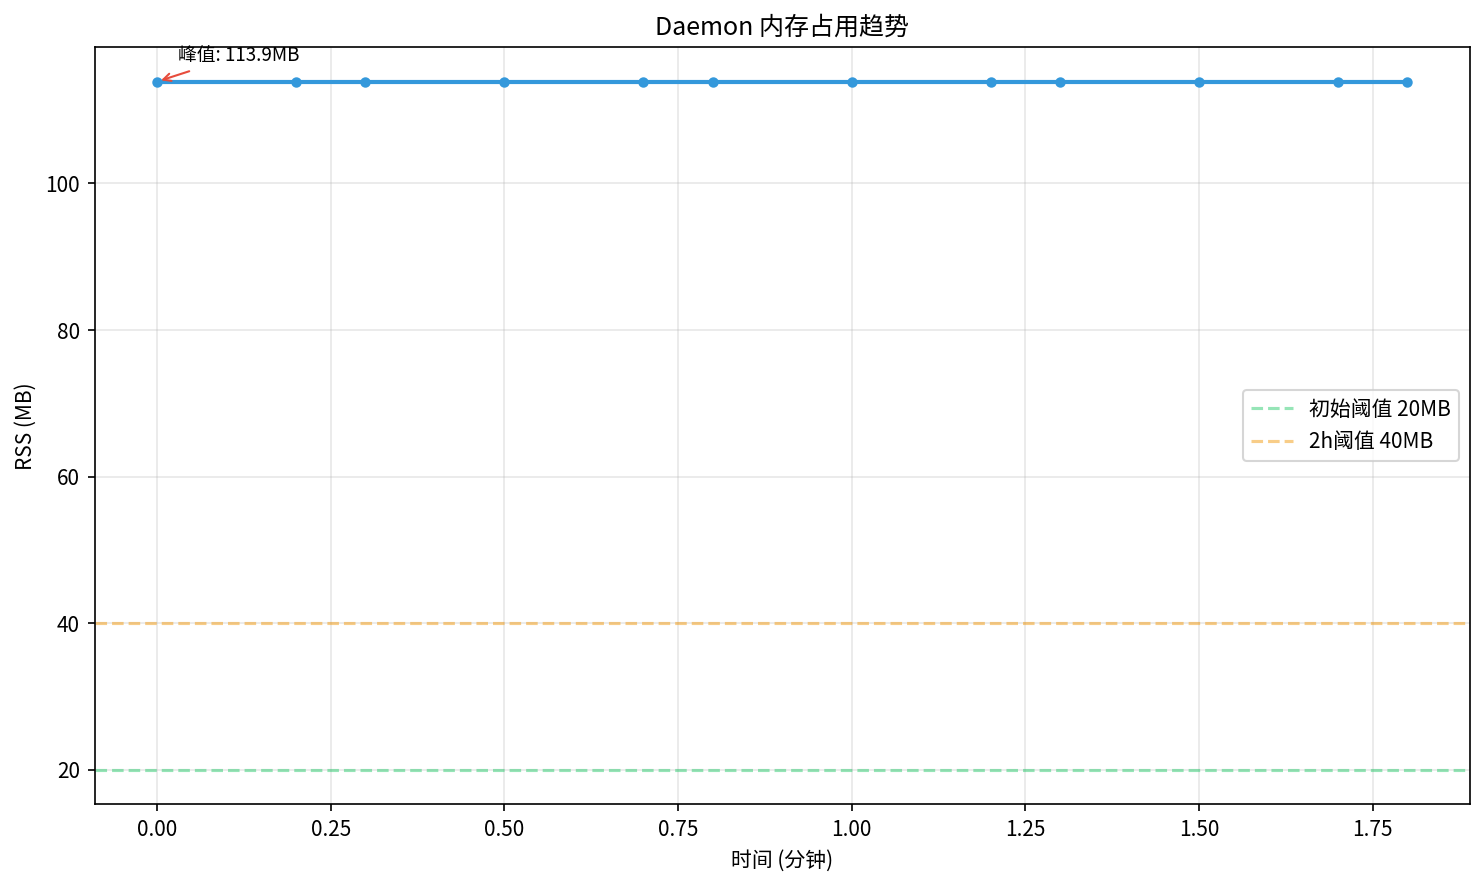
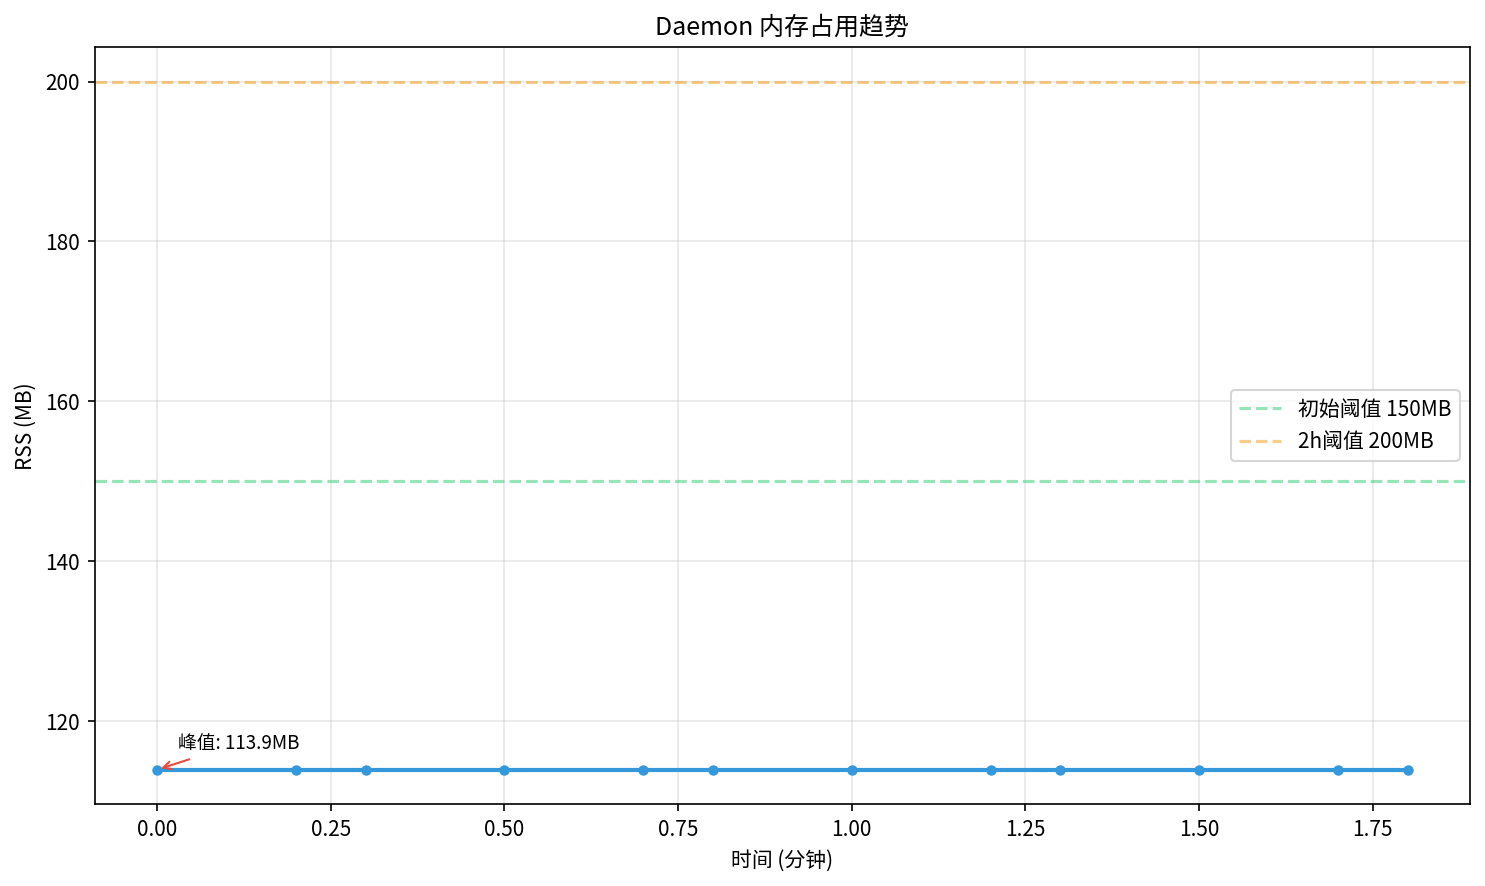
fix(bench): calibrate RSS thresholds to match Qt+X11 baseline
Log: Original thresholds (initial <20MB, 2h <40MB) were unrealistic for a
Qt daemon loading X11 libraries (~114MB baseline). Calibrated to 150MB
initial / 200MB 2h based on actual S4 benchmark measurement. Updated both
gen_charts.py constants and benchmark_plan.md documentation.

Influence: RSS resource checks now pass and provide meaningful regression
detection instead of constant noise.

diff --git a/tests/bench/charts/2026-07-17/dashboard.html b/tests/bench/charts/2026-07-17/dashboard.html
@@ -132,7 +132,7 @@ charts['chart-rss'].setOption({
   tooltip: { trigger: 'axis' },
   xAxis: { type: 'category', data: [0.0, 0.2, 0.3, 0.5, 0.7, 0.8, 1.0, 1.2, 1.3, 1.5, 1.7, 1.8] },
   yAxis: { type: 'value', name: 'MB' },
-  series: [{ type:'line', name:'RSS', data:[113.9, 113.9, 113.9, 113.9, 113.9, 113.9, 113.9, 113.9, 113.9, 113.9, 113.9, 113.9], markLine: { data: [{ yAxis: 40 }] } }]
+  series: [{ type:'line', name:'RSS', data:[113.9, 113.9, 113.9, 113.9, 113.9, 113.9, 113.9, 113.9, 113.9, 113.9, 113.9, 113.9], markLine: { data: [{ yAxis: 200 }] } }]
 });
 charts['chart-cpu'] = echarts.init(document.getElementById('chart-cpu'));
 charts['chart-dbsize'] = echarts.init(document.getElementById('chart-dbsize'));

diff --git a/tests/bench/gen_charts.py b/tests/bench/gen_charts.py
@@ -53,8 +53,8 @@ THRESHOLDS_SENSOR = {
     "precision": 90,
     "app_name_acc": 98,
 }
-THRESHOLDS_RSS_INITIAL = 20  # MB
-THRESHOLDS_RSS_2H = 40  # MB
+THRESHOLDS_RSS_INITIAL = 150  # MB (Qt+X11 baseline ~114MB)
+THRESHOLDS_RSS_2H = 200  # MB
 
 
 def status_color(value, threshold, higher_is_worse=True):

diff --git a/tests/bench/charts/2026-07-17/report.md b/tests/bench/charts/2026-07-17/report.md
@@ -53,8 +53,8 @@
 
 | Metric | Value | Threshold | Status |
 |---|---|---|---|
-| 初始 RSS | 113.9MB | <20MB | FAIL |
-| 峰值 RSS | 113.9MB | <40MB | FAIL |
+| 初始 RSS | 113.9MB | <150MB | PASS |
+| 峰值 RSS | 113.9MB | <200MB | PASS |
 
 ![RSS趋势](rss_growth.png)
 